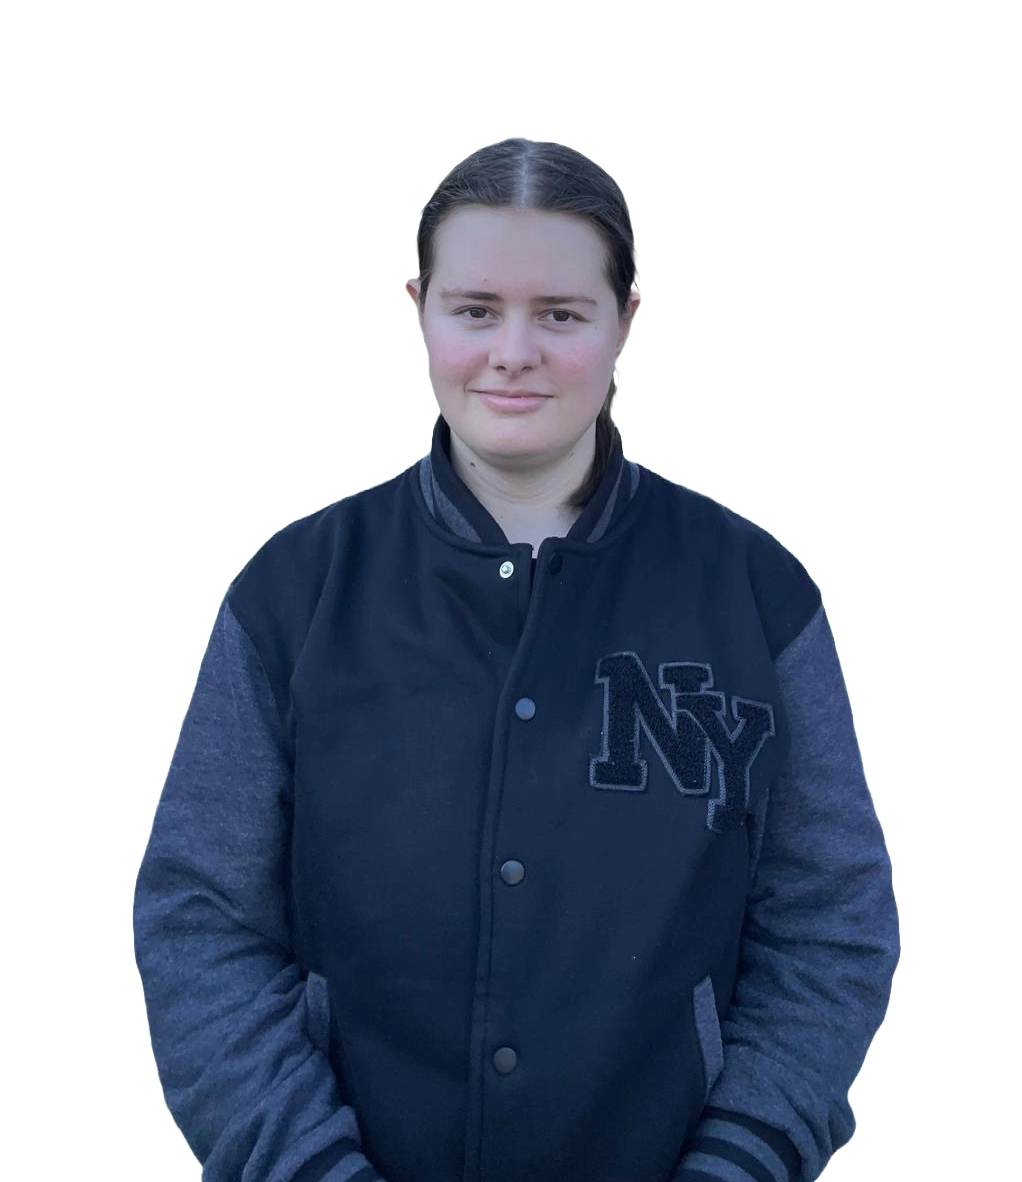
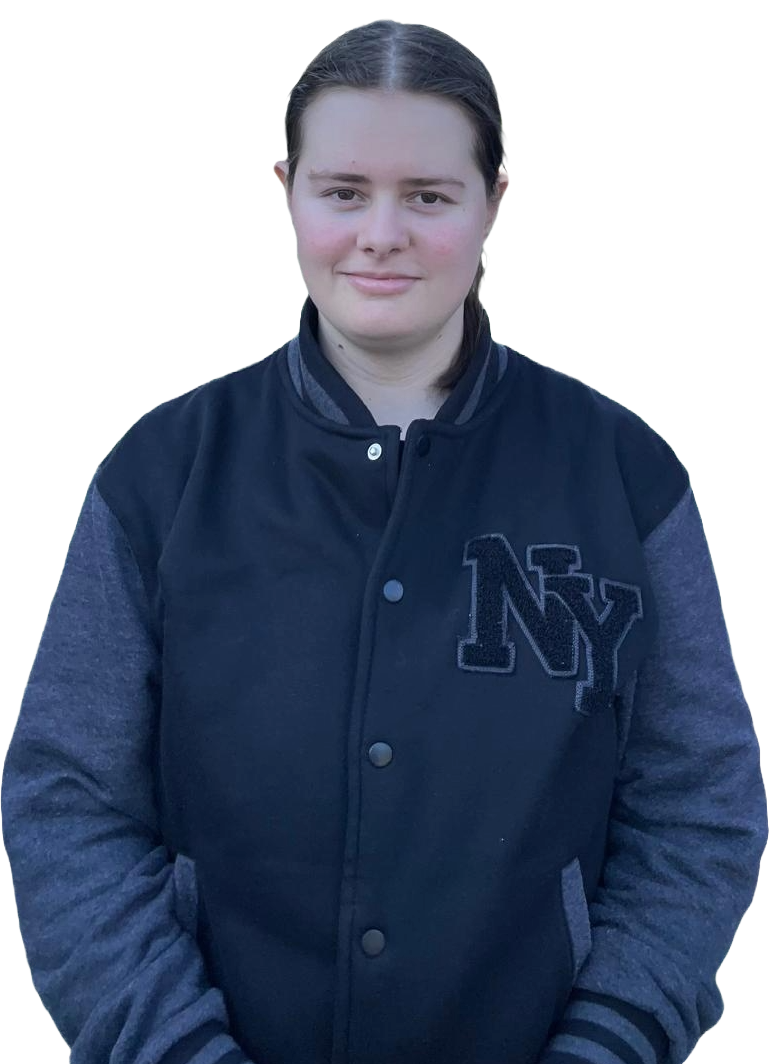
navbar & home section

diff --git a/src/app/home/home.component.scss b/src/app/home/home.component.scss
@@ -1,0 +1,209 @@
+.wholeCNT {
+  position: relative;
+}
+
+.leftSide {
+  display: flex;
+  align-items: left;
+
+  img {
+    position: absolute;
+    top: 110px;
+  }
+
+  .shadowIMG {
+    z-index: -1;
+    width: 40%;
+    top: 150px;
+  }
+
+  .proIMG {
+    z-index: 1;
+    width: 30%;
+    left: 50px;
+    top: 80px;
+  }
+}
+
+.shape {
+  position: absolute;
+  width: 100%;
+  left: 0;
+  z-index: 2;
+  height: 970px;
+  top: 280px;
+
+  img {
+    width: 100%;
+  }
+}
+
+.rightSide {
+  position: absolute;
+  z-index: 10;
+  left: 0;
+  top: 100px;
+  width: 100%;
+}
+
+.descriptionCNT {
+  position: absolute;
+  right: 0;
+  height: 172px;
+  left: 450px;
+  top: 50px;
+  gap: 35px;
+}
+
+.descriptionTXT {
+  display: flex;
+  height: 170px;
+  top: 300px;
+  left: 500px;
+}
+
+.whoIs {
+  rotate: 270deg;
+  margin-right: 0;
+  height: 65px;
+  width: 260px;
+
+  h2 {
+    margin-bottom: 0;
+    color: #ffff;
+    font-family: Poppins;
+    font-weight: 400;
+    font-style: Regular;
+    font-size: 60px;
+    line-height: 120%;
+    letter-spacing: 0%;
+  }
+}
+
+.roleName {
+  margin-left: 0;
+
+  h1 {
+    margin: 0;
+    color: #ffff;
+    height: 110px;
+    width: 400px;
+    font-family: Poppins;
+    font-weight: 700;
+    font-style: Bold;
+    font-size: 90px;
+    line-height: 120%;
+    letter-spacing: 0%;
+  }
+
+  h2 {
+    margin: 0;
+    color: #9747ff;
+    height: 70px;
+    font-family: Poppins;
+    font-weight: 400;
+    font-style: Regular;
+    font-size: 60px;
+    line-height: 120%;
+    letter-spacing: 0%;
+  }
+}
+
+.talk {
+  height: 100px;
+  width: 600px;
+
+  button {
+    position: relative;
+    top: 20px;
+    left: 250px;
+    font-family: Poppins;
+    padding: 15 30;
+    /* padding-top: 15px;
+    padding-right: 30px;
+    padding-bottom: 15px;
+    padding-left: 30px; */
+    gap: 10px;
+    width: 190px;
+    height: 60px;
+    border-radius: 10px;
+    background-color: #70e61c;
+    border-color: #70e61c;
+
+    &:hover {
+      cursor: pointer;
+      color: #ffffff;
+      background-color: #9747ff;
+      border-color: #9747ff;
+      transform: scale(1.1);
+      transition: transform 0.3s ease-in-out;
+    }
+  }
+
+  .talkBTN {
+    color: #ffffff;
+    font-weight: 700;
+    font-family: Poppins;
+    font-weight: 400;
+
+    font-size: 25px;
+    line-height: 120%;
+    letter-spacing: 0%;
+  }
+  /* &:hover {
+      // On click
+      // Scroll to: "anchor 4";
+      // Animate: Animate;
+      animation-timing-function: ease-out;
+      animation-duration: 300ms;
+    } */
+}
+
+.homeFooter {
+  display: flex;
+  justify-content: space-between;
+}
+
+.socialMedia {
+  width: 566px;
+  height: 40px;
+  position: relative;
+  top: 700px;
+  gap: 32px;
+}
+
+.socialMedia {
+  display: flex;
+  align-items: center;
+  justify-content: space-between;
+
+  img {
+    width: 40px;
+    height: 40px;
+
+    &:hover {
+      cursor: pointer;
+      transform: scale(1.1);
+      transition: transform 0.3s ease-in-out;
+    }
+  }
+}
+
+.scrollDown {
+  position: relative;
+  top: 650px;
+
+  a {
+    text-decoration: none;
+    color: #ffffff;
+    font-family: Poppins;
+    font-weight: 400;
+    font-size: 20px;
+    line-height: 120%;
+    letter-spacing: 0%;
+  }
+}
+
+.scrollingDown {
+  rotate: 90deg;
+}

diff --git a/src/app/home/home.component.html b/src/app/home/home.component.html
@@ -1,1 +1,71 @@
 <p>home works!</p>
+
+<section class="wholeCNT">
+  <section class="leftSide">
+    <img class="proIMG" src="/img/professionelles_Bild.png" alt="" />
+    <img class="shadowIMG" src="/img/shadow/01_photo_shadows.png" alt="" />
+  </section>
+
+  <img class="shape" src="/img/shape.png" alt="" />
+
+  <section class="rightSide">
+    <div class="descriptionCNT">
+      <div class="descriptionTXT">
+        <div class="whoIs">
+          <h2>{{ "home.whoIs" | translate }}</h2>
+        </div>
+        <div class="roleName">
+          <h1>{{ "home.name" | translate }}</h1>
+          <h2>{{ "home.role" | translate }}</h2>
+        </div>
+      </div>
+
+      <div class="talk">
+        <button class="talkBTN">{{ "home.talk" | translate }}</button>
+      </div>
+    </div>
+
+    <div class="homeFooter">
+      <div class="socialMedia">
+        <div class="homeLine">
+          <img src="/img/lines/01_quick_contact.png" alt="" />
+        </div>
+
+        <div class="SocialMediaIcons">
+          <a class="github" href="https://github.com/lcotar" target="_blank">
+            <img src="/img/social_media/08_github.png" alt="GitHub" />
+          </a>
+
+          <a class="email" href="#contact">
+            <img
+              src="/img/social_media/09_email.png"
+              alt="E-Mail"
+              target="_blank"
+            />
+          </a>
+
+          <a
+            class="linkedIn"
+            href="http://www.linkedin.com/in/leacotar"
+            target="_blank"
+          >
+            <img src="/img/social_media/10_linkedin.png" alt="LinkedIn" />
+          </a>
+        </div>
+
+        <div class="emailAdressCNT">
+          <a class="emailAdress" href="#contact">
+            {{ "home.email" | translate }}
+          </a>
+        </div>
+      </div>
+
+      <div class="scrollDown">
+        <a class="scrollingDown" href="#contact">{{
+          "home.scroll" | translate
+        }}</a>
+        <img class="arrow" src="/img/arrow_scroll_down.png" alt="" />
+      </div>
+    </div>
+  </section>
+</section>

diff --git a/src/app/home/home.component.ts b/src/app/home/home.component.ts
@@ -1,12 +1,12 @@
 import { Component } from '@angular/core';
+import { TranslateModule } from '@ngx-translate/core';
+import { CommonModule } from '@angular/common';
 
 @Component({
   selector: 'app-home',
   standalone: true,
-  imports: [],
+  imports: [TranslateModule, CommonModule],
   templateUrl: './home.component.html',
-  styleUrl: './home.component.scss'
+  styleUrl: './home.component.scss',
 })
-export class HomeComponent {
-
-}
+export class HomeComponent {}

diff --git a/src/app/home/navbar/navbar.component.scss b/src/app/home/navbar/navbar.component.scss
@@ -1,11 +1,12 @@
 .navbarCNT {
+  position: fixed;
   display: flex;
   width: 100%;
-  height: 109px;
-  padding-top: 40px;
-  padding-bottom: 40px;
+  height: 100px;
+  background-color: #141d2f;
+  top: 0;
+  z-index: 99;
   /* gap: 590px; */
-  position: sticky;
 }
 
 .navbarLogo {
